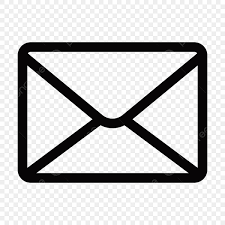
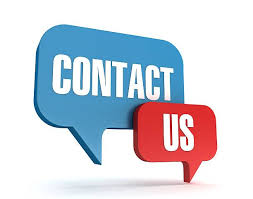
update from kevinBranch, add Dockerfile, will update on EC2 on tomorrow

diff --git a/signin.html b/signin.html
@@ -4,38 +4,126 @@
   <meta charset="UTF-8">
   <title>Sign In - Company A</title>
   <meta name="viewport" content="width=device-width, initial-scale=1.0">
-
   <link href="https://cdn.jsdelivr.net/npm/bootstrap@5.3.2/dist/css/bootstrap.min.css" rel="stylesheet">
   <link rel="stylesheet" href="css/style.css">
   <link rel="stylesheet" href="css/signin.css">
-
-  <!-- React + ReactDOM -->
   <script src="https://unpkg.com/react@18/umd/react.development.js" crossorigin></script>
   <script src="https://unpkg.com/react-dom@18/umd/react-dom.development.js" crossorigin></script>
-
-  <!-- Babel (lets browser understand JSX) -->
   <script src="https://unpkg.com/@babel/standalone/babel.min.js"></script>
 </head>
+<body>
 
-<nav class="navbar navbar-expand-lg navbar-dark bg-dark">
+  <nav class="navbar navbar-expand-lg navbar-dark bg-dark">
     <div class="container">
       <a class="navbar-brand" href="index.html">Company A</a>
       <button class="navbar-toggler" type="button" data-bs-toggle="collapse" data-bs-target="#menu">
         <span class="navbar-toggler-icon"></span>
       </button>
-
       <div class="collapse navbar-collapse" id="menu">
         <ul class="navbar-nav ms-auto">
-            <li class="nav-item"><a class="nav-link" href="index.html">Home</a></li>
-            <li class="nav-item"><a class="nav-link" href="contact.html">Contact</a></li>
-            <li class="nav-item"><a class="nav-link" href="about.html">About</a></li>
+          <li class="nav-item"><a class="nav-link" href="index.html">Home</a></li>
+          <li class="nav-item"><a class="nav-link" href="about.html">About</a></li>
+          <li class="nav-item"><a class="nav-link" href="contact.html">Contact</a></li>
         </ul>
       </div>
     </div>
-</nav>
+  </nav>
 
-<body>
   <div id="root"></div>
-  <script type="text/babel" src="js/signin.js"></script>
+
+  <script src="https://cdn.jsdelivr.net/npm/bootstrap@5.3.2/dist/js/bootstrap.bundle.min.js"></script>
+  <script type="text/babel">
+    const { useState, useEffect } = React;
+
+    function App() {
+      const [showCreate, setShowCreate] = useState(false);
+
+      const [login, setLogin] = useState("");
+      const [password, setPassword] = useState("");
+
+      const [name, setName] = useState("");
+      const [email, setEmail] = useState("");
+      const [createLogin, setCreateLogin] = useState("");
+      const [createPassword, setCreatePassword] = useState("");
+
+      const [refresh, setRefresh] = useState(false);
+
+      useEffect(() => {
+        const savedLogin = localStorage.getItem("login");
+        const savedPassword = localStorage.getItem("password");
+
+        if (savedLogin) setLogin(savedLogin);
+        if (savedPassword) setPassword(savedPassword);
+      }, [refresh]);
+
+      const handleSubmit = (e) => {
+        e.preventDefault();
+        localStorage.setItem("login", login);
+        localStorage.setItem("password", password);
+        setRefresh(!refresh);
+      };
+
+      const handleEnter = (e) => {
+        e.preventDefault();
+        localStorage.setItem("login", createLogin);
+        localStorage.setItem("password", createPassword);
+        setShowCreate(false);
+        setRefresh(!refresh);
+      };
+
+      return (
+        <div className="forms-container">
+          <form className="vertical-form" onSubmit={handleSubmit}>
+            <input
+              type="text"
+              placeholder="Login"
+              value={login}
+              onChange={(e) => setLogin(e.target.value)}
+            />
+            <input
+              type="password"
+              placeholder="Password"
+              value={password}
+              onChange={(e) => setPassword(e.target.value)}
+            />
+            <button type="submit">Submit</button>
+            <button type="button" onClick={() => setShowCreate(true)}>Create Account</button>
+          </form>
+
+          {showCreate && (
+            <form className="vertical-form" onSubmit={handleEnter}>
+              <input
+                type="text"
+                placeholder="Name"
+                value={name}
+                onChange={(e) => setName(e.target.value)}
+              />
+              <input
+                type="email"
+                placeholder="Email"
+                value={email}
+                onChange={(e) => setEmail(e.target.value)}
+              />
+              <input
+                type="text"
+                placeholder="Login"
+                value={createLogin}
+                onChange={(e) => setCreateLogin(e.target.value)}
+              />
+              <input
+                type="password"
+                placeholder="Password"
+                value={createPassword}
+                onChange={(e) => setCreatePassword(e.target.value)}
+              />
+              <button type="submit">Enter</button>
+            </form>
+          )}
+        </div>
+      );
+    }
+
+    ReactDOM.createRoot(document.getElementById("root")).render(<App />);
+  </script>
 </body>
 </html>

diff --git a/contact.html b/contact.html
@@ -4,12 +4,11 @@
   <meta charset="UTF-8">
   <title>Contact - Company A</title>
   <meta name="viewport" content="width=device-width, initial-scale=1.0">
-
   <link href="https://cdn.jsdelivr.net/npm/bootstrap@5.3.2/dist/css/bootstrap.min.css" rel="stylesheet">
   <link rel="stylesheet" href="css/style.css">
 </head>
-
 <body>
+
   <nav class="navbar navbar-expand-lg navbar-dark bg-dark">
     <div class="container">
       <a class="navbar-brand" href="index.html">Company A</a>
@@ -19,15 +18,15 @@
       <div class="collapse navbar-collapse" id="menu">
         <ul class="navbar-nav ms-auto">
           <li class="nav-item"><a class="nav-link" href="index.html">Home</a></li>
-          <li class="nav-item"><a class="nav-link" href="signin.html">Sign In</a></li>
           <li class="nav-item"><a class="nav-link" href="about.html">About</a></li>
+          <li class="nav-item"><a class="nav-link" href="signin.html">Sign In</a></li>
         </ul>
       </div>
     </div>
   </nav>
 
-  <main class="container mt-4">
-    <img src="../images/contact.jpg" alt="Contact" class="img-fluid">
+  <main class="container mt-5">
+    <img src="images/contact.jpg" alt="Contact" class="img-fluid mb-4">
 
     <div class="float-box">
       <p>Email: abc@email.com</p>
@@ -36,16 +35,21 @@
     <h2>Contact Us</h2>
 
     <form onsubmit="showAlert(); return false;">
-      <label>Name:</label>
-      <input type="text" class="form-control mb-2" required>
+      <label for="name">Name:</label>
+      <input type="text" id="name" class="form-control mb-2" required>
 
-      <label>Email:</label>
-      <input type="email" class="form-control mb-2" required>
+      <label for="email">Email:</label>
+      <input type="email" id="email" class="form-control mb-2" required>
 
       <button class="btn btn-primary">Submit</button>
     </form>
   </main>
 
   <script src="https://cdn.jsdelivr.net/npm/bootstrap@5.3.2/dist/js/bootstrap.bundle.min.js"></script>
+  <script>
+    function showAlert() {
+      alert("Thank you for reaching out! We will get back to you soon.");
+    }
+  </script>
 </body>
 </html>

diff --git a/css/style.css b/css/style.css
@@ -2,6 +2,13 @@ body {
   font-family: Arial, sans-serif;
 }
 
+.info-box {
+  padding: 15px;
+  border: 2px solid #333;
+  background-color: #f2f2f2;
+  display: inline-block;
+}
+
 .float-box {
   float: right;
   width: 250px;
@@ -9,10 +16,4 @@ body {
   margin: 10px;
   border: 2px solid #333;
   background-color: #f2f2f2;
-}
-
-.create-box {
-  margin-top: 20px;
-  padding: 15px;
-  border: 2px solid #666;
 }

diff --git a/css/signin.css b/css/signin.css
@@ -7,7 +7,7 @@
 
 .forms-container {
   display: flex;
-  gap: 40px;         /* space between the columns */
+  gap: 40px;
   justify-content: center;
   margin-top: 50px;
   align-items: flex-start;
